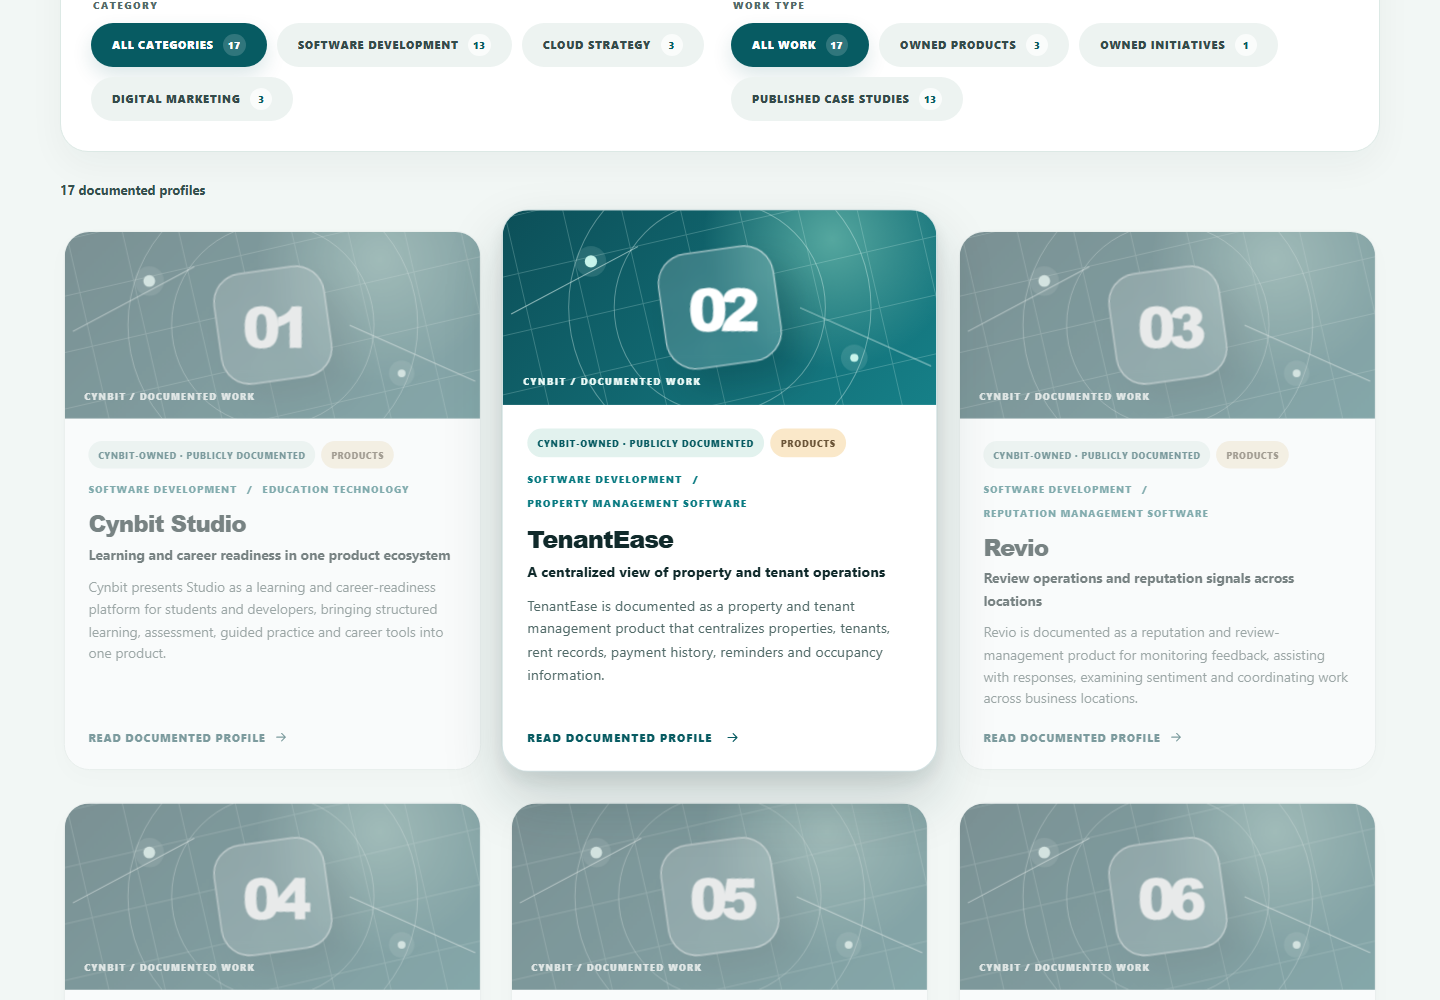
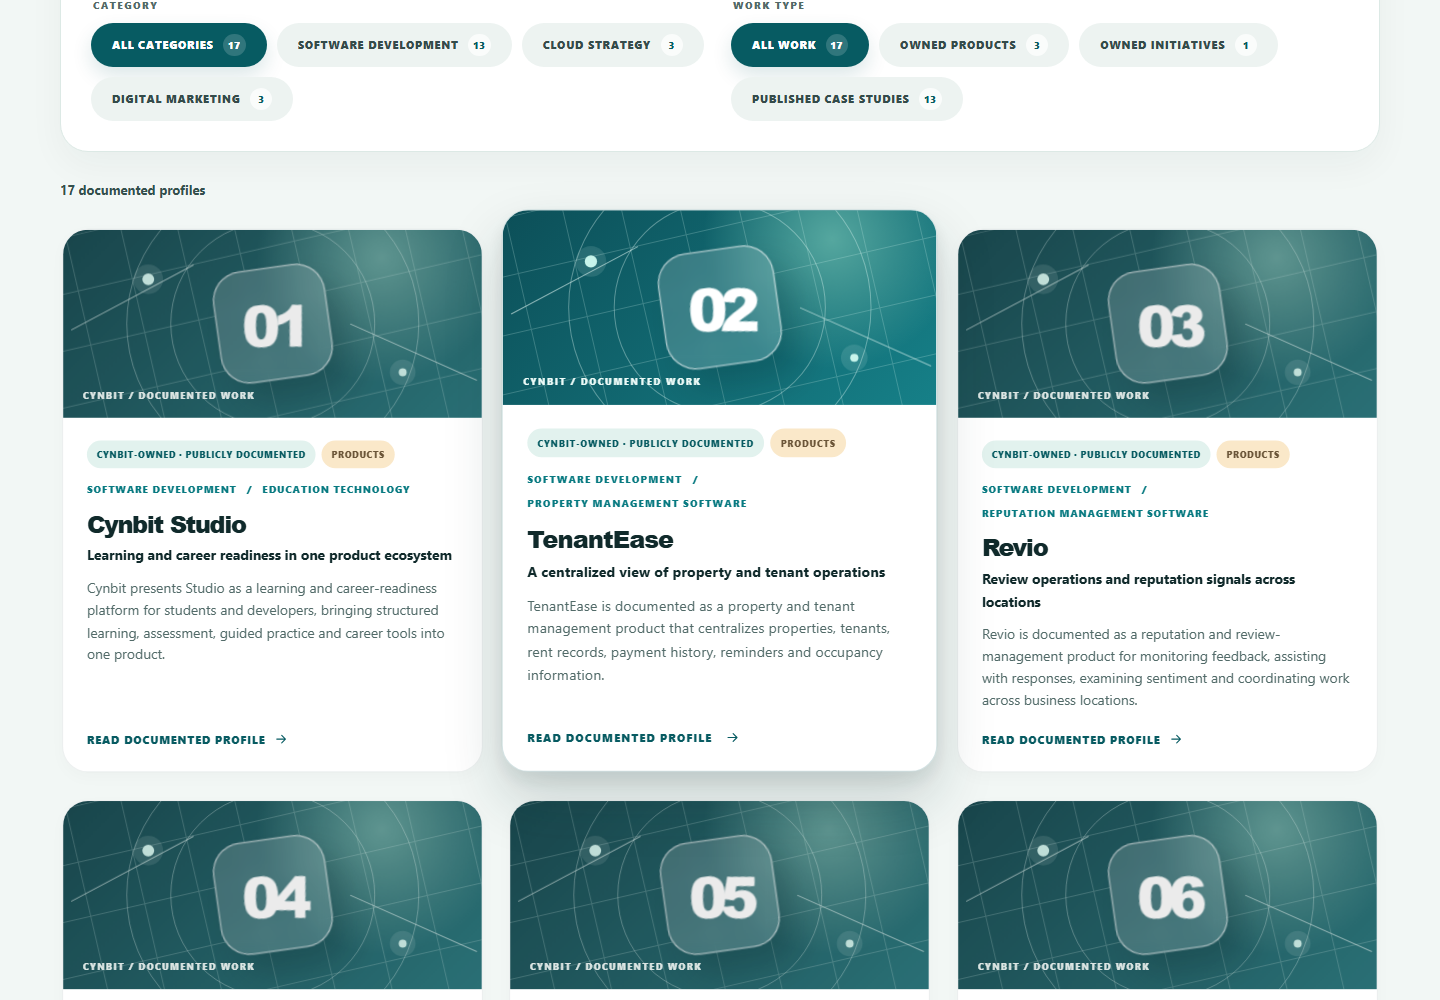
docs: refresh validation evidence and screenshots

diff --git a/docs/validation.md b/docs/validation.md
@@ -1,6 +1,6 @@
 # Validation record
 
-Final verification executed locally on 25 October 2026 with Node.js 25.5.0 and npm 11.8.0 on Windows. Deployment was intentionally excluded.
+Final verification executed locally on 26 October 2026 with Node.js 23.7.0 and npm 10.9.2 on Windows. Deployment was intentionally excluded.
 
 ## Automated checks
 
@@ -9,15 +9,15 @@ Final verification executed locally on 25 October 2026 with Node.js 25.5.0 and n
 | `npm run lint` | Passed. |
 | `npm run typecheck` | Passed. |
 | `npm test` | Passed: 3 suites, 19 unit/component tests. |
-| `npm run test:e2e` | Passed: 33 tests across Chromium, Firefox, and WebKit in 2.5 minutes. |
-| `npm run build` | Passed: 62 modules transformed. |
-| `npm run check:bundle` | Passed: JavaScript 99.69 KiB gzip against 150 KiB; CSS 6.02 KiB gzip against 30 KiB. |
+| `npm run test:e2e` | Passed: 42 tests across Chromium, Firefox, and WebKit. |
+| `npm run build` | Passed: 63 modules transformed. |
+| `npm run check:bundle` | Passed: JavaScript 100.28 KiB gzip against 150 KiB; CSS 6.95 KiB gzip against 30 KiB. |
 | `npm audit --json` | Passed: zero reported vulnerabilities across 429 dependencies. This advisory check is not a complete security audit. |
 | `npm run docs:screenshots` | Passed: desktop explorer, 390-pixel Cloud Strategy, and GlobalPay detail screenshots regenerated and visually inspected. |
 
-The browser suite verifies the Software Development 13, Cloud Strategy 3, and Digital Marketing 3 distribution; product, initiative, and 13-entry published-study filters; keyword and verified-technology search; combined criteria; clear controls; empty recovery; result announcements; URL synchronization; browser Back/Forward; direct detail access and refresh; related-profile navigation; return-state preservation; claim citations; first-party outcome caveats; keyboard activation; skip navigation; invalid filters/routes; 320/390/768/1440-pixel layouts; 200% root text scaling; reduced motion; image blocking; no remote runtime request; browser console errors; and axe scans.
+The browser suite verifies the Software Development 13, Cloud Strategy 3, and Digital Marketing 3 distribution; product, initiative, and 13-entry published-study filters; contextual facet counts; keyword and verified-technology search; combined criteria; clear controls; empty recovery; result announcements; URL synchronization; browser Back/Forward; direct detail access and refresh; related-profile navigation; return-state preservation; claim citations; first-party outcome caveats; keyboard activation; focus-moving skip navigation; invalid filters/routes; 320/390/768/1440-pixel layouts; 200% root text scaling; reduced motion; image blocking; no remote runtime request; browser console errors; and axe scans.
 
-Axe found no serious or critical violations on the listing, empty state, owned detail, or published-study detail route in Chromium, Firefox, and WebKit. Automated scanning does not replace evaluation with real assistive technology.
+Axe found no serious or critical violations on the listing, empty state, owned detail, published-study detail, card-hover, or card-keyboard-focus states in Chromium, Firefox, and WebKit. Automated scanning does not replace evaluation with real assistive technology.
 
 ## Content validation
 
@@ -33,9 +33,9 @@ Axe found no serious or critical violations on the listing, empty state, owned d
 
 ## Browser and visual review
 
-- Chromium: 11/11 browser tests passed.
-- Firefox: 11/11 browser tests passed.
-- WebKit: 11/11 browser tests passed.
+- Chromium: 14/14 browser tests passed.
+- Firefox: 14/14 browser tests passed.
+- WebKit: 14/14 browser tests passed.
 - The 1440-pixel explorer, 390-pixel Cloud Strategy view, and 1440-pixel GlobalPay detail view were regenerated and inspected.
 - No unintended horizontal overflow was detected at tested widths or with 200% root text scaling.
 - Detail pages use a readable two-column desktop hierarchy and a single-column mobile reflow.
@@ -58,4 +58,4 @@ Axe found no serious or critical violations on the listing, empty state, owned d
 - Lighthouse and field Core Web Vitals were not measured. Bundle budgets, runtime-network independence, and console checks provide local safeguards without implying field performance.
 - The thirteen published project stories and their metrics remain first-party claims without independent client corroboration or public methodology.
 - External reference pages can change after the recorded access date.
-- The current directory is not recognized as a Git repository, and no Git history or remote operation was created.
+- The repository has local Git history. No commit, push, pull request, deployment, or remote mutation was performed as part of this validation.

diff --git a/README.md b/README.md
@@ -5,7 +5,7 @@
 [![React](https://img.shields.io/badge/React-19-087e8b?logo=react&logoColor=white)](https://react.dev/)
 [![TypeScript](https://img.shields.io/badge/TypeScript-5.9-3178c6?logo=typescript&logoColor=white)](https://www.typescriptlang.org/)
 [![Vite](https://img.shields.io/badge/Vite-7-646cff?logo=vite&logoColor=white)](https://vite.dev/)
-[![Tests](https://img.shields.io/badge/tests-32%20passing-087e8b)](#quality-assurance)
+[![Tests](https://img.shields.io/badge/tests-61%20passing-087e8b)](#quality-assurance)
 
 ![Cynbit Work & Impact desktop explorer](docs/screenshots/explorer-desktop.png)
 
@@ -23,7 +23,7 @@ The experience is designed to answer three questions immediately:
 
 | Portfolio concern | Improvement delivered |
 | --- | --- |
-| Static, hard-to-explore content | Dynamic category and work-type filters, combined keyword search, result counts, empty states, and reset controls |
+| Static, hard-to-explore content | Dynamic category and work-type filters, contextual result counts, combined keyword search, empty states, and reset controls |
 | Unclear credibility of project claims | Sourced profiles, evidence labels, numbered references, attribution, and visible limitations on every detail page |
 | Temporary fictional prototype content | Replaced with four Cynbit-owned products/initiatives and thirteen case studies published by Cynbit |
 | Shallow project presentation | Reusable detail views for context, objectives, challenges, solution, execution, technology, outcomes, evidence limits, and related work |
@@ -37,7 +37,7 @@ The experience is designed to answer three questions immediately:
 - **Three preserved service categories**: Software Development (13), Cloud Strategy (3), and Digital Marketing (3).
 - **Evidence-first detail pages**: source references, outcome attribution, and limitations live alongside the project narrative.
 - **Professional discovery flow**: responsive card grid, focused card hover/focus treatment, related work, and a compact header logo reconstructed as a scalable SVG.
-- **Thoughtful motion**: only decorative elements fade; readable content stays opaque to preserve contrast. Motion is disabled for users who prefer reduced motion.
+- **Thoughtful motion**: the active card rises while peer content stays fully readable; only decorative artwork becomes slightly subdued. Motion is disabled for users who prefer reduced motion.
 
 ## Architecture
 
@@ -133,11 +133,11 @@ The latest local verification completed successfully:
 | ESLint | Passed |
 | TypeScript | Passed |
 | Unit and component tests | 19 passed |
-| Chromium end-to-end tests | 13 passed |
-| Automated serious/critical axe violations | None found on listing, empty-state, and detail journeys |
+| Chromium end-to-end tests | 14 passed |
+| Automated serious/critical axe violations | None found on listing, empty-state, detail, hover, and keyboard-focus journeys |
 | Production build | Passed |
 
-The browser coverage includes filtering, multi-criteria search, invalid query recovery, URL synchronization, Back/Forward behavior, direct detail routes, refreshes, retained return state, keyboard navigation, responsive layouts, console errors, and key accessibility journeys.
+The browser coverage includes filtering, contextual facet counts, multi-criteria search, invalid query recovery, URL synchronization, Back/Forward behavior, direct detail routes, refreshes, retained return state, keyboard navigation, responsive layouts, console errors, metadata, and default plus hover/focus accessibility journeys.
 
 ## Demo journey
 
@@ -160,4 +160,4 @@ The browser coverage includes filtering, multi-criteria search, invalid query re
 
 ## Originality and attribution
 
-The public [Cynbit website](https://www.cynbit.in/) informed the teal palette, rounded controls, and broad visual language. Public facts link to their source material. All application code, component structure, CSS artwork, SVG treatment, documentation, summaries, evidence notes, and tests are original to this prototype. No Cynbit source code, private API, client asset, product screenshot, or proprietary implementation was copied.
+The public [Cynbit website](https://www.cynbit.in/) informed the teal palette, rounded controls, and broad visual language. The header mark is a code-drawn reference to Cynbit's public logo and remains Cynbit's brand mark. Public facts link to their source material. All application code, component structure, CSS artwork, documentation, summaries, evidence notes, and tests are original to this prototype. No Cynbit source code, private API, client asset, product screenshot, or proprietary implementation was copied.

diff --git a/docs/phase-verification.md b/docs/phase-verification.md
@@ -1,6 +1,6 @@
 # Work & Impact implementation verification
 
-Verified on 25 October 2026. Deployment is excluded.
+Verified on 26 October 2026. Deployment is excluded.
 
 | Phase | Status | Implementation evidence | Verification evidence |
 | --- | --- | --- | --- |
@@ -9,8 +9,8 @@ Verified on 25 October 2026. Deployment is excluded.
 | 3. Content expansion | Complete | Four owned profiles plus all thirteen Cynbit-published studies replace the fictional data. Every study includes context, objective, problem, solution, implementation, execution, technology evidence, attributed outcome, and limits. | Every narrative claim and named technology resolves to a profile source. Every first-party outcome includes a source and visible caveat. |
 | 4. Explorer experience | Complete | Evidence-led hero, featured profile, dynamic filters and counts, technology/outcome card facts, enhanced search, empty recovery, live count, and URL state. | Component and three-browser tests pass for standalone and combined criteria, clearing, invalid values, and Back/Forward. |
 | 5. Detail experience | Complete | Evidence-aware hero, project metadata, ten structured sections, numbered references, outcome classification, related work, and preserved return state. | Direct routes, refresh, citations, related navigation, unknown slugs, published-study caveats, technology evidence, and return state pass. |
-| 6. Accessibility and responsive quality | Complete with documented measurement limits | Semantic regions, native controls, labelled fieldsets/search, visible focus, live announcements, route focus, reduced motion, responsive CSS, and local CSS artwork. | Axe reports no serious or critical findings. Keyboard, 320/390/768/1440 widths, 200% text scaling, console, network, and image-failure checks pass. |
-| 7. Documentation and handoff | Complete except Git history, intentionally unavailable | README, evidence ledger, policy, decisions, screenshots and capture script, lockfile, `.gitignore`, CI workflow, validation record, setup, demo journey, attribution, and limitations are current. | Lint, TypeScript, 19 unit/component tests, 33 browser tests, production build, bundle budget, screenshot capture, and npm audit pass. |
+| 6. Accessibility and responsive quality | Complete with documented measurement limits | Semantic regions, native controls, labelled fieldsets/search, visible focus, live announcements, route focus, reduced motion, responsive CSS, and local CSS artwork. | Axe reports no serious or critical findings on default, hover, and keyboard-focus states. Keyboard, 320/390/768/1440 widths, 200% text scaling, console, network, and image-failure checks pass. |
+| 7. Documentation and handoff | Complete | README, evidence ledger, policy, decisions, screenshots and capture script, lockfile, `.gitignore`, CI workflow, validation record, setup, demo journey, attribution, and limitations are current. | Clean Git history, lint, TypeScript, 19 unit/component tests, 42 browser tests, production build, bundle budget, screenshot capture, and npm audit pass. |
 
 ## Acceptance result
 
